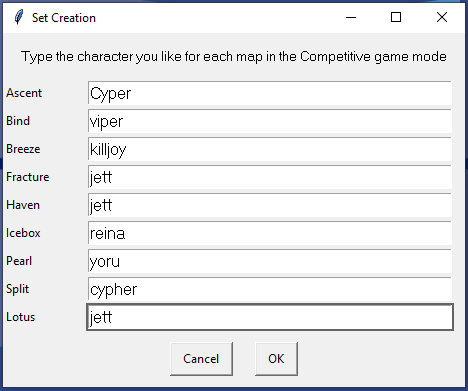
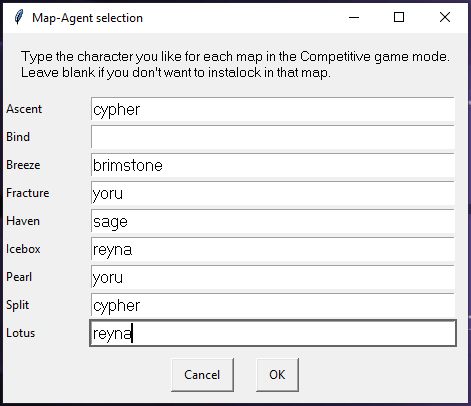
Update README.md
update readme.md and the images.

Changed region(s): [[0.0, 0.0, 1.0, 1.0]]

diff --git a/README.md b/README.md
@@ -15,6 +15,7 @@ Now you have the executable file of the program. Double-click on it to start.
 - Install python3 from the [official site](https://www.python.org/).
 - Install the dependencies from the requirements.txt file.
 
+Now you have the project to use. Don't forget to read the license.
 
 # How to Use
 The program is very intuitive and all information will appear on the screen.
@@ -26,21 +27,21 @@ When you open the program for the first time you'll need to enter your server re
 ![app_first_run](images/app_first_run.png)
 ![region_options](images/region_options.png)
 
-## Set
+## Profile
 After you enter your region, new options will appear on the screen.
-These options allow you to create a SET, which is your preference for an agent in each map in a specific game mode. 
+These options allow you to create a profile, which is your preference for an agent in each map in a specific game mode. 
 
 This allows you to create predefined combinations of agents-map-gamemodes to use during your playtime.
 
-You can create, delete or select a set from the main menu options
+You can create, delete or select a profile from the main menu options
 
-![set_creation](images/set_creation.png)
+![profile_creation](images/profile_creation.png)
 ![character_selection](images/character_selection.png)
 
 ## Starting
-After selecting the set you want, the option to start the instalocker will appear. You will be prompted to start the Valorant before continuing with the instalocker. When your Valorant is opened, confirm the program and you can start the Valorant matchmaking.
+After selecting the profile you want, the option to start the instalocker will appear. You will be prompted to start the Valorant before continuing with the instalocker. When your Valorant is opened, confirm the program and you can start looking for a match.
 
-When the character selection starts your character will already be selected.
+When the character selection starts your agent will already be selected.
 
 ![ready_to_start](images/ready_to_start.png)
 ![valorant_running_confirmation](images/valorant_running_confirmation.png)
@@ -52,12 +53,12 @@ Enter [our discord server](https://discord.gg/faeM7p92pz) to chat and get suppor
 # How it Works
 Agent selecting is handled via the VALORANT Official API, which means that this program does not mess with the game's memory or files at all.
 
-# Is This Bannable?
+# Is This "bannable"?
 **USE AT YOUR OWN RISK.**
 
 **No suspensions have been reported so far from using this program.**
 
-This program **does not** use an auto-clicker, read the game's memory or files; therefore, the anti-cheat shouldn't be triggered.
+This program **does not** use an auto-clicker, read the game's memory or files; therefore, the anti-cheat **should not** be triggered.
 
 However, using the VALORANT API in this manner is against Riot's Terms of Service, since you are getting an advantage over other players. So there is always a risk.
 
@@ -87,5 +88,5 @@ See our [Discord Server](https://discord.gg/faeM7p92pz) for more details
 ### Style Guide
 
 - Follow the PEP8 style and conventions.
-- Add comments to your code to explain complex sections or algorithms.
+- Add comments to your code and doc-strings to your functions.
 
